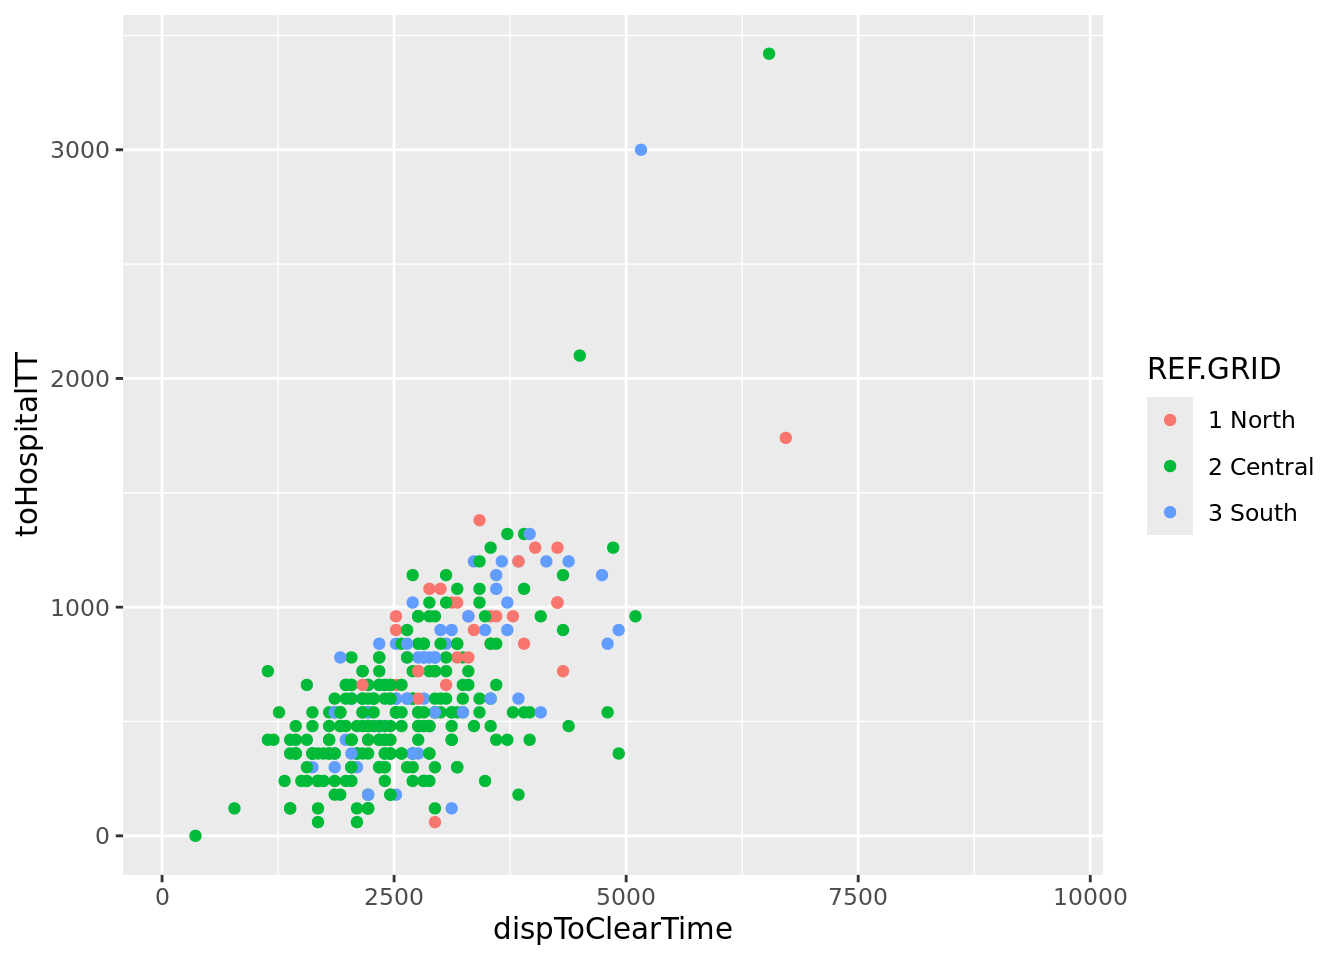
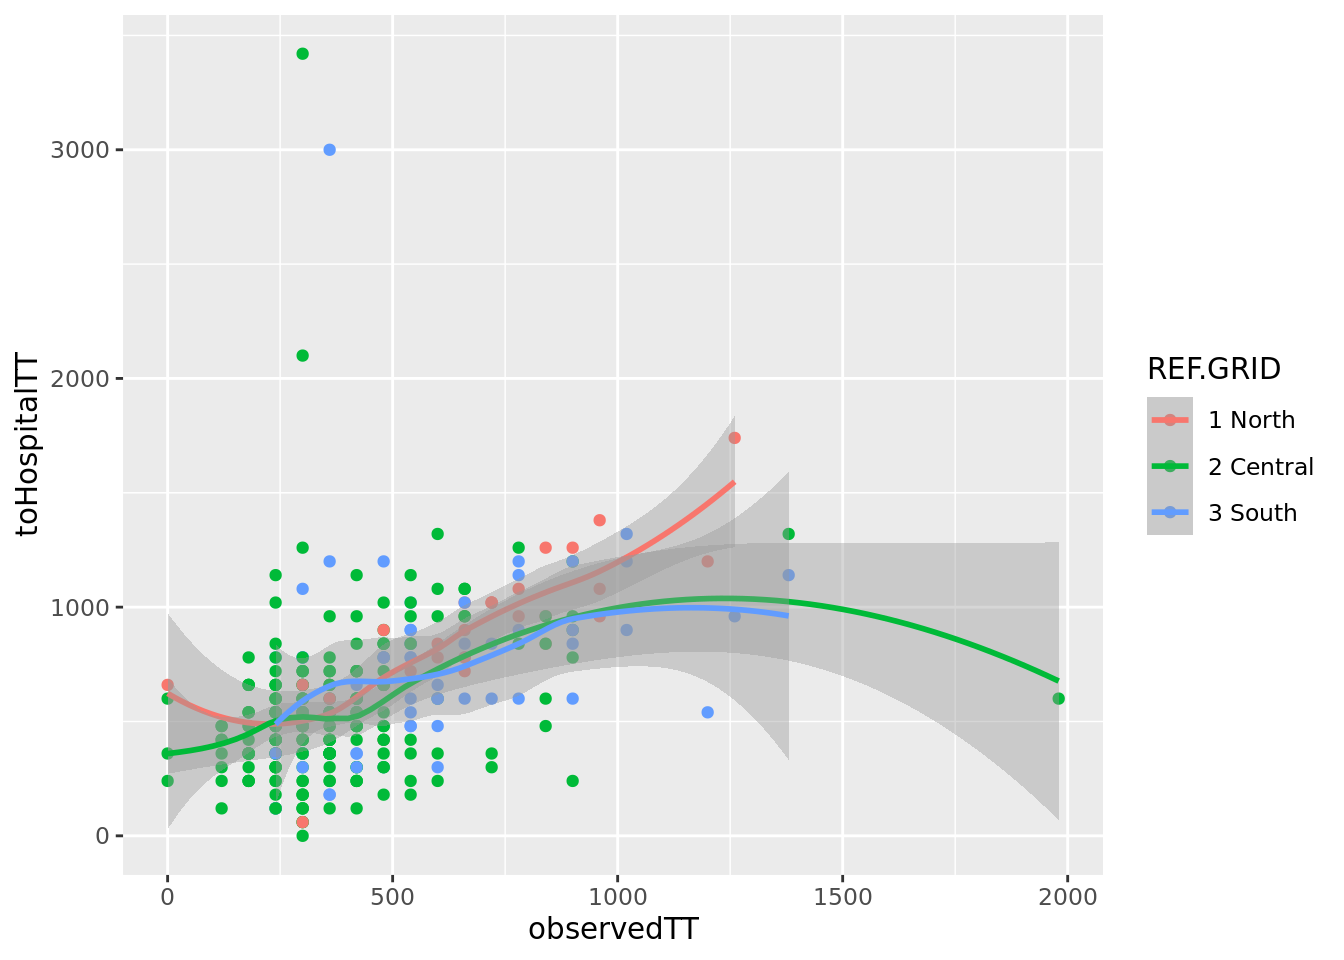
boxplot and scatterplot eda

diff --git a/case3_code.html b/case3_code.html
@@ -154,12 +154,18 @@ Defaulting to continuous.</code></pre>
 </figure>
 </div>
 </div>
-<div class="sourceCode cell-code" id="cb9"><pre class="sourceCode r code-with-copy"><code class="sourceCode r"><span id="cb9-1"><a href="#cb9-1" aria-hidden="true" tabindex="-1"></a><span class="fu">ggplot</span>(x,<span class="fu">aes</span>(<span class="at">x=</span>dispToClearTime,<span class="at">y=</span>toHospitalTT,<span class="at">color=</span>REF.GRID))<span class="sc">+</span><span class="fu">geom_point</span>()</span></code><button title="Copy to Clipboard" class="code-copy-button"><i class="bi"></i></button></pre></div>
+<div class="sourceCode cell-code" id="cb9"><pre class="sourceCode r code-with-copy"><code class="sourceCode r"><span id="cb9-1"><a href="#cb9-1" aria-hidden="true" tabindex="-1"></a><span class="co"># difference in travel time (station to scene vs. scene to hospital)</span></span>
+<span id="cb9-2"><a href="#cb9-2" aria-hidden="true" tabindex="-1"></a><span class="fu">ggplot</span>(x,<span class="fu">aes</span>(<span class="at">x=</span>observedTT,<span class="at">y=</span>toHospitalTT,<span class="at">color=</span>REF.GRID))<span class="sc">+</span><span class="fu">geom_point</span>()<span class="sc">+</span><span class="fu">geom_smooth</span>()</span></code><button title="Copy to Clipboard" class="code-copy-button"><i class="bi"></i></button></pre></div>
 <div class="cell-output cell-output-stderr">
 <pre><code>Don't know how to automatically pick scale for object of type &lt;difftime&gt;.
 Defaulting to continuous.
 Don't know how to automatically pick scale for object of type &lt;difftime&gt;.
-Defaulting to continuous.</code></pre>
+Defaulting to continuous.
+`geom_smooth()` using method = 'loess' and formula = 'y ~ x'</code></pre>
+</div>
+<div class="cell-output cell-output-stderr">
+<pre><code>Warning: Removed 162 rows containing non-finite outside the scale range
+(`stat_smooth()`).</code></pre>
 </div>
 <div class="cell-output cell-output-stderr">
 <pre><code>Warning: Removed 162 rows containing missing values or values outside the scale range
@@ -169,6 +175,23 @@ Defaulting to continuous.</code></pre>
 <div>
 <figure class="figure">
 <p><img src="case3_code_files/figure-html/unnamed-chunk-4-2.png" class="img-fluid figure-img" width="672"></p>
+</figure>
+</div>
+</div>
+<div class="sourceCode cell-code" id="cb13"><pre class="sourceCode r code-with-copy"><code class="sourceCode r"><span id="cb13-1"><a href="#cb13-1" aria-hidden="true" tabindex="-1"></a><span class="co">#difference in travel time ()</span></span>
+<span id="cb13-2"><a href="#cb13-2" aria-hidden="true" tabindex="-1"></a><span class="fu">ggplot</span>(x,<span class="fu">aes</span>(<span class="at">x=</span>atHospitalDur,<span class="at">y=</span>REF.GRID,<span class="at">color=</span>DISPATCH.PRIORITY.NAME))<span class="sc">+</span><span class="fu">geom_boxplot</span>()</span></code><button title="Copy to Clipboard" class="code-copy-button"><i class="bi"></i></button></pre></div>
+<div class="cell-output cell-output-stderr">
+<pre><code>Don't know how to automatically pick scale for object of type &lt;difftime&gt;.
+Defaulting to continuous.</code></pre>
+</div>
+<div class="cell-output cell-output-stderr">
+<pre><code>Warning: Removed 162 rows containing non-finite outside the scale range
+(`stat_boxplot()`).</code></pre>
+</div>
+<div class="cell-output-display">
+<div>
+<figure class="figure">
+<p><img src="case3_code_files/figure-html/unnamed-chunk-4-3.png" class="img-fluid figure-img" width="672"></p>
 </figure>
 </div>
 </div>
